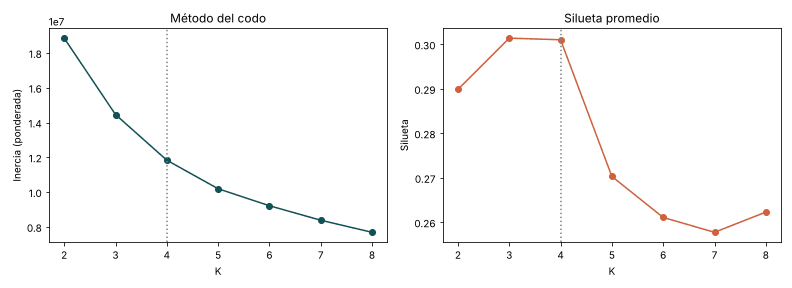
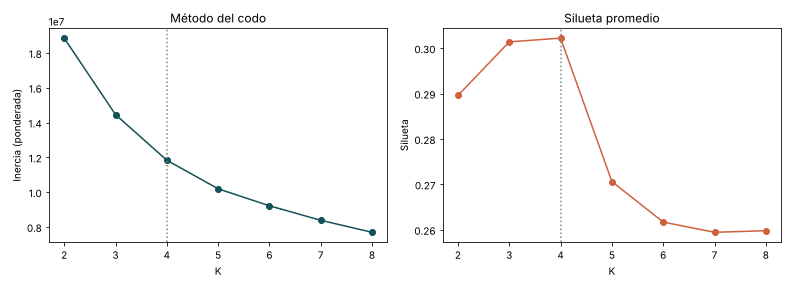
Menor uso de CPU en la nube: estabilidad bajo demanda y menos inicializaciones

diff --git a/app.py b/app.py
@@ -1,6 +1,9 @@
 """¿Quiénes son los hogares que viven en arriendo en Cali A.M.?
 ACP y K-Means sobre la GEIH 2025 · Taller individual, Machine Learning aplicado a Economía y Finanzas.
 """
+import os
+
+os.environ.setdefault("OMP_NUM_THREADS", "1")  # menos picos de CPU en Streamlit Cloud
 import numpy as np
 import pandas as pd
 import plotly.express as px
@@ -297,9 +300,13 @@ elif pagina == "5. Segmentación K-Means":
                 "los segmentos existen, pero sus bordes son difusos.</div>", unsafe_allow_html=True)
 
     st.markdown("### ¿Son estables los segmentos?")
-    with st.spinner("Probando la estabilidad de la segmentación…"):
-        est = evaluacion_estabilidad(tuple(variables), recorte, n_comp, k, ponderar)
-    st.dataframe(est.style.format({"ARI promedio": "{:.3f}", "ARI mínimo": "{:.3f}"}), width="stretch", hide_index=True)
+    st.markdown("Se vuelve a correr K-Means con otras semillas, con submuestras del 80 % de los hogares, sin ponderación y con todas las variables, "
+                "y se compara cada resultado con la segmentación elegida.")
+    if st.button("Ejecutar la prueba de estabilidad", type="primary") or st.session_state.get("estabilidad_vista"):
+        st.session_state["estabilidad_vista"] = True
+        with st.spinner("Probando la estabilidad de la segmentación (unos segundos)…"):
+            est = evaluacion_estabilidad(tuple(variables), recorte, n_comp, k, ponderar)
+        st.dataframe(est.style.format({"ARI promedio": "{:.3f}", "ARI mínimo": "{:.3f}"}), width="stretch", hide_index=True)
     st.markdown("<p class='nota'>Índice de Rand ajustado (ARI): 1 = misma partición; 0 = coincidencia por azar. Una silueta moderada no implica grupos inestables: "
                 "la partición se repite casi igual con otras semillas y submuestras.</p>", unsafe_allow_html=True)
 

diff --git a/src/analisis.py b/src/analisis.py
@@ -112,7 +112,7 @@ def componentes_sugeridos(res: ResultadoACP, umbral_acum=0.70) -> dict:
 def evaluar_k(X: np.ndarray, pesos, ks=range(2, 9)) -> pd.DataFrame:
     filas = []
     for k in ks:
-        km = KMeans(k, n_init=20, random_state=SEMILLA).fit(X, sample_weight=pesos)
+        km = KMeans(k, n_init=5, random_state=SEMILLA).fit(X, sample_weight=pesos)
         sil = silhouette_score(X, km.labels_, sample_size=min(3000, len(X)), random_state=SEMILLA)
         filas.append({"K": k, "Inercia": km.inertia_, "Silueta": sil})
     return pd.DataFrame(filas)
@@ -190,10 +190,10 @@ def estabilidad(X: np.ndarray, pesos, k: int, etiquetas: np.ndarray, Z_completo:
         w = None if pesos is None else np.asarray(pesos)[idx]
         sub.append(ari(etiquetas[idx], KMeans(k, n_init=5, random_state=b).fit(X[idx], sample_weight=w).labels_))
     filas.append({"Prueba": "20 submuestras del 80 % de los hogares", "ARI promedio": np.mean(sub), "ARI mínimo": np.min(sub)})
-    alt = ari(etiquetas, KMeans(k, n_init=50, random_state=SEMILLA).fit(X, sample_weight=None if pesos is not None else np.ones(len(X))).labels_)
+    alt = ari(etiquetas, KMeans(k, n_init=20, random_state=SEMILLA).fit(X, sample_weight=None if pesos is not None else np.ones(len(X))).labels_)
     filas.append({"Prueba": "Cambiar la ponderación (con ↔ sin FEX_C18)", "ARI promedio": alt, "ARI mínimo": alt})
     if Z_completo is not None:
-        z = ari(etiquetas, KMeans(k, n_init=50, random_state=SEMILLA).fit(Z_completo, sample_weight=pesos).labels_)
+        z = ari(etiquetas, KMeans(k, n_init=20, random_state=SEMILLA).fit(Z_completo, sample_weight=pesos).labels_)
         filas.append({"Prueba": "Usar todas las variables estandarizadas en vez de los componentes", "ARI promedio": z, "ARI mínimo": z})
     return pd.DataFrame(filas)
 
